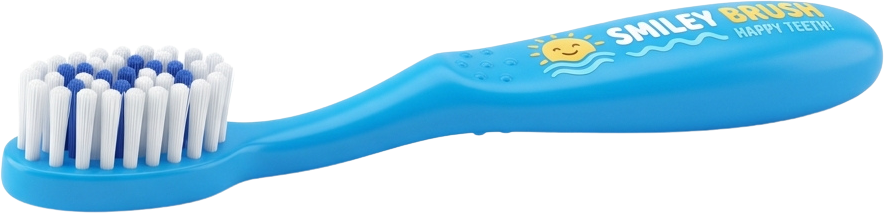
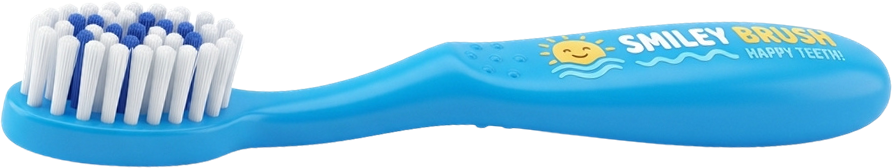
Add files via upload

diff --git a/games/game4-measure.js b/games/game4-measure.js
@@ -1,6 +1,6 @@
 /* ================================================================
    GAME 4: PHÒNG ĐO LƯỜNG
-   Đo độ dài — Bộ đồ vật PNG phong phú (Bàn chải, Bút chì, Chiếc lược, Cục tẩy, Kẹo mút, Cái muỗng, Cái kéo)
+   Đo độ dài — Căn chỉnh tỉ lệ ảnh chuẩn tự nhiên (không bị bẹt, đã xén lề trong suốt)
    ================================================================ */
 import { setChat, snd, makePills, showResult } from '../main.js';
 
@@ -9,7 +9,7 @@ let g4 = { round: 1, PX: 24, objLeft: 70, items: [] };
 /* Pool đồ vật phong phú — Bàn chải 8cm chuẩn ở vòng 1 */
 const ITEM_POOL = [
   { id: 'banchai', name: 'Bàn chải', cm: 8 },
-  { id: 'pencil', name: 'Cái bút chì', cm: 10 },
+  { id: 'pencil', name: 'Cái bút chì', cm: 8 },
   { id: 'comb', name: 'Chiếc lược', cm: 9 },
   { id: 'eraser', name: 'Cục tẩy', cm: 4 },
   { id: 'lollipop', name: 'Cây kẹo mút', cm: 6 },
@@ -26,8 +26,8 @@ function shuffle(a) {
   return b;
 }
 
-/* Hiển thị đồ vật bằng tệp ảnh PNG sinh động, nền trong suốt */
-function getObjectHTML(id, width) {
+/* Hiển thị đồ vật bằng tệp ảnh PNG chuẩn tỉ lệ, không bị bẹt hay biến dạng */
+function getObjectHTML(id) {
   let src = '';
   if (id.startsWith('banchai')) {
     src = 'items/banchai.png';
@@ -46,11 +46,10 @@ function getObjectHTML(id, width) {
   }
 
   if (src) {
-    return `<img src="${src}" alt="${id}" style="width:${width}px; height:50px; object-fit:fill; display:block; filter:drop-shadow(0 4px 6px rgba(0,0,0,0.18)); user-select:none; -webkit-user-drag:none; pointer-events:none;">`;
+    return `<img src="${src}" alt="${id}">`;
   }
 
-  // Fallback SVG nếu không tìm thấy tệp ảnh
-  return `<svg width="${width}" height="44" viewBox="0 0 200 44" preserveAspectRatio="none" style="display:block;">
+  return `<svg width="100%" height="44" viewBox="0 0 200 44" preserveAspectRatio="none" style="display:block;">
     <rect x="0" y="6" width="200" height="32" rx="8" fill="#3b82f6" stroke="#1d4ed8" stroke-width="3"/>
   </svg>`;
 }
@@ -78,12 +77,12 @@ function loadRound(r) {
   const scene = document.getElementById('mscene');
   const len = it.cm * g4.PX;
 
-  // Tạo vật thể đo bằng ảnh PNG (Không có khung màu xanh bao quanh)
+  // Tạo vật thể đo bằng ảnh PNG (Không bị bẹt, căn chuẩn số cm)
   const obj = document.createElement('div');
   obj.className = 'm-object';
   obj.style.left = g4.objLeft + 'px';
   obj.style.width = len + 'px';
-  obj.innerHTML = getObjectHTML(it.id, len);
+  obj.innerHTML = getObjectHTML(it.id);
   scene.appendChild(obj);
 
   // Tạo thước kẻ
